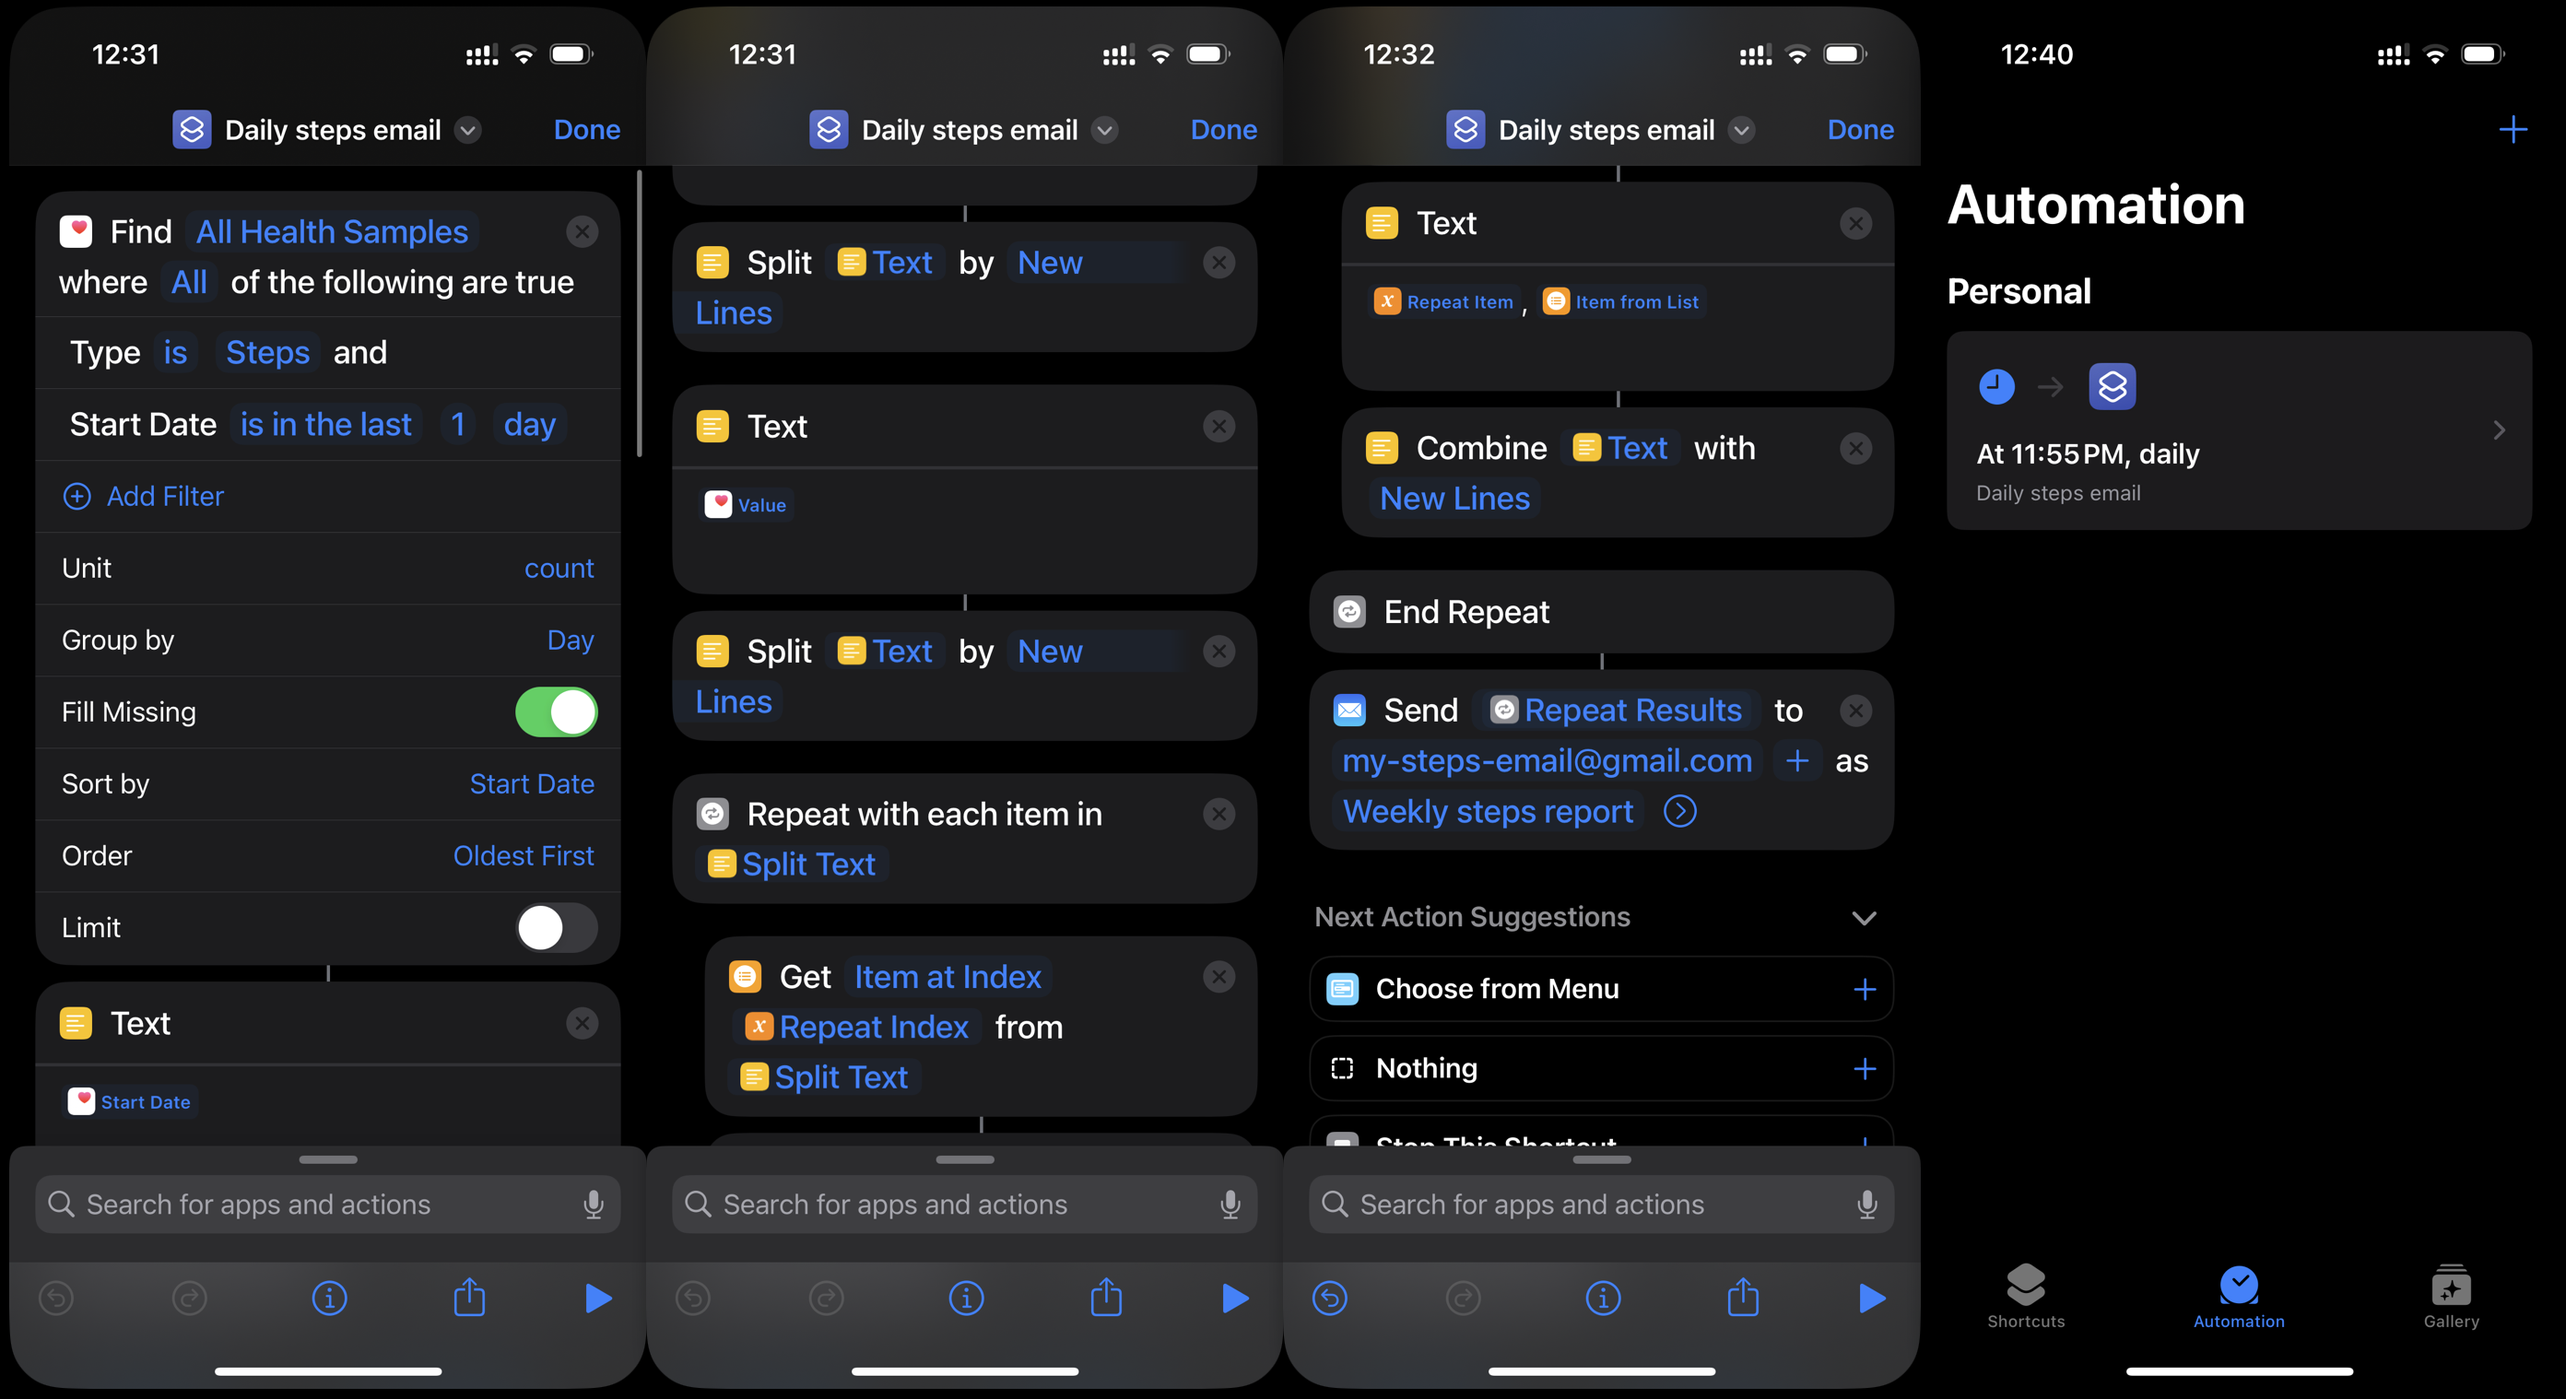
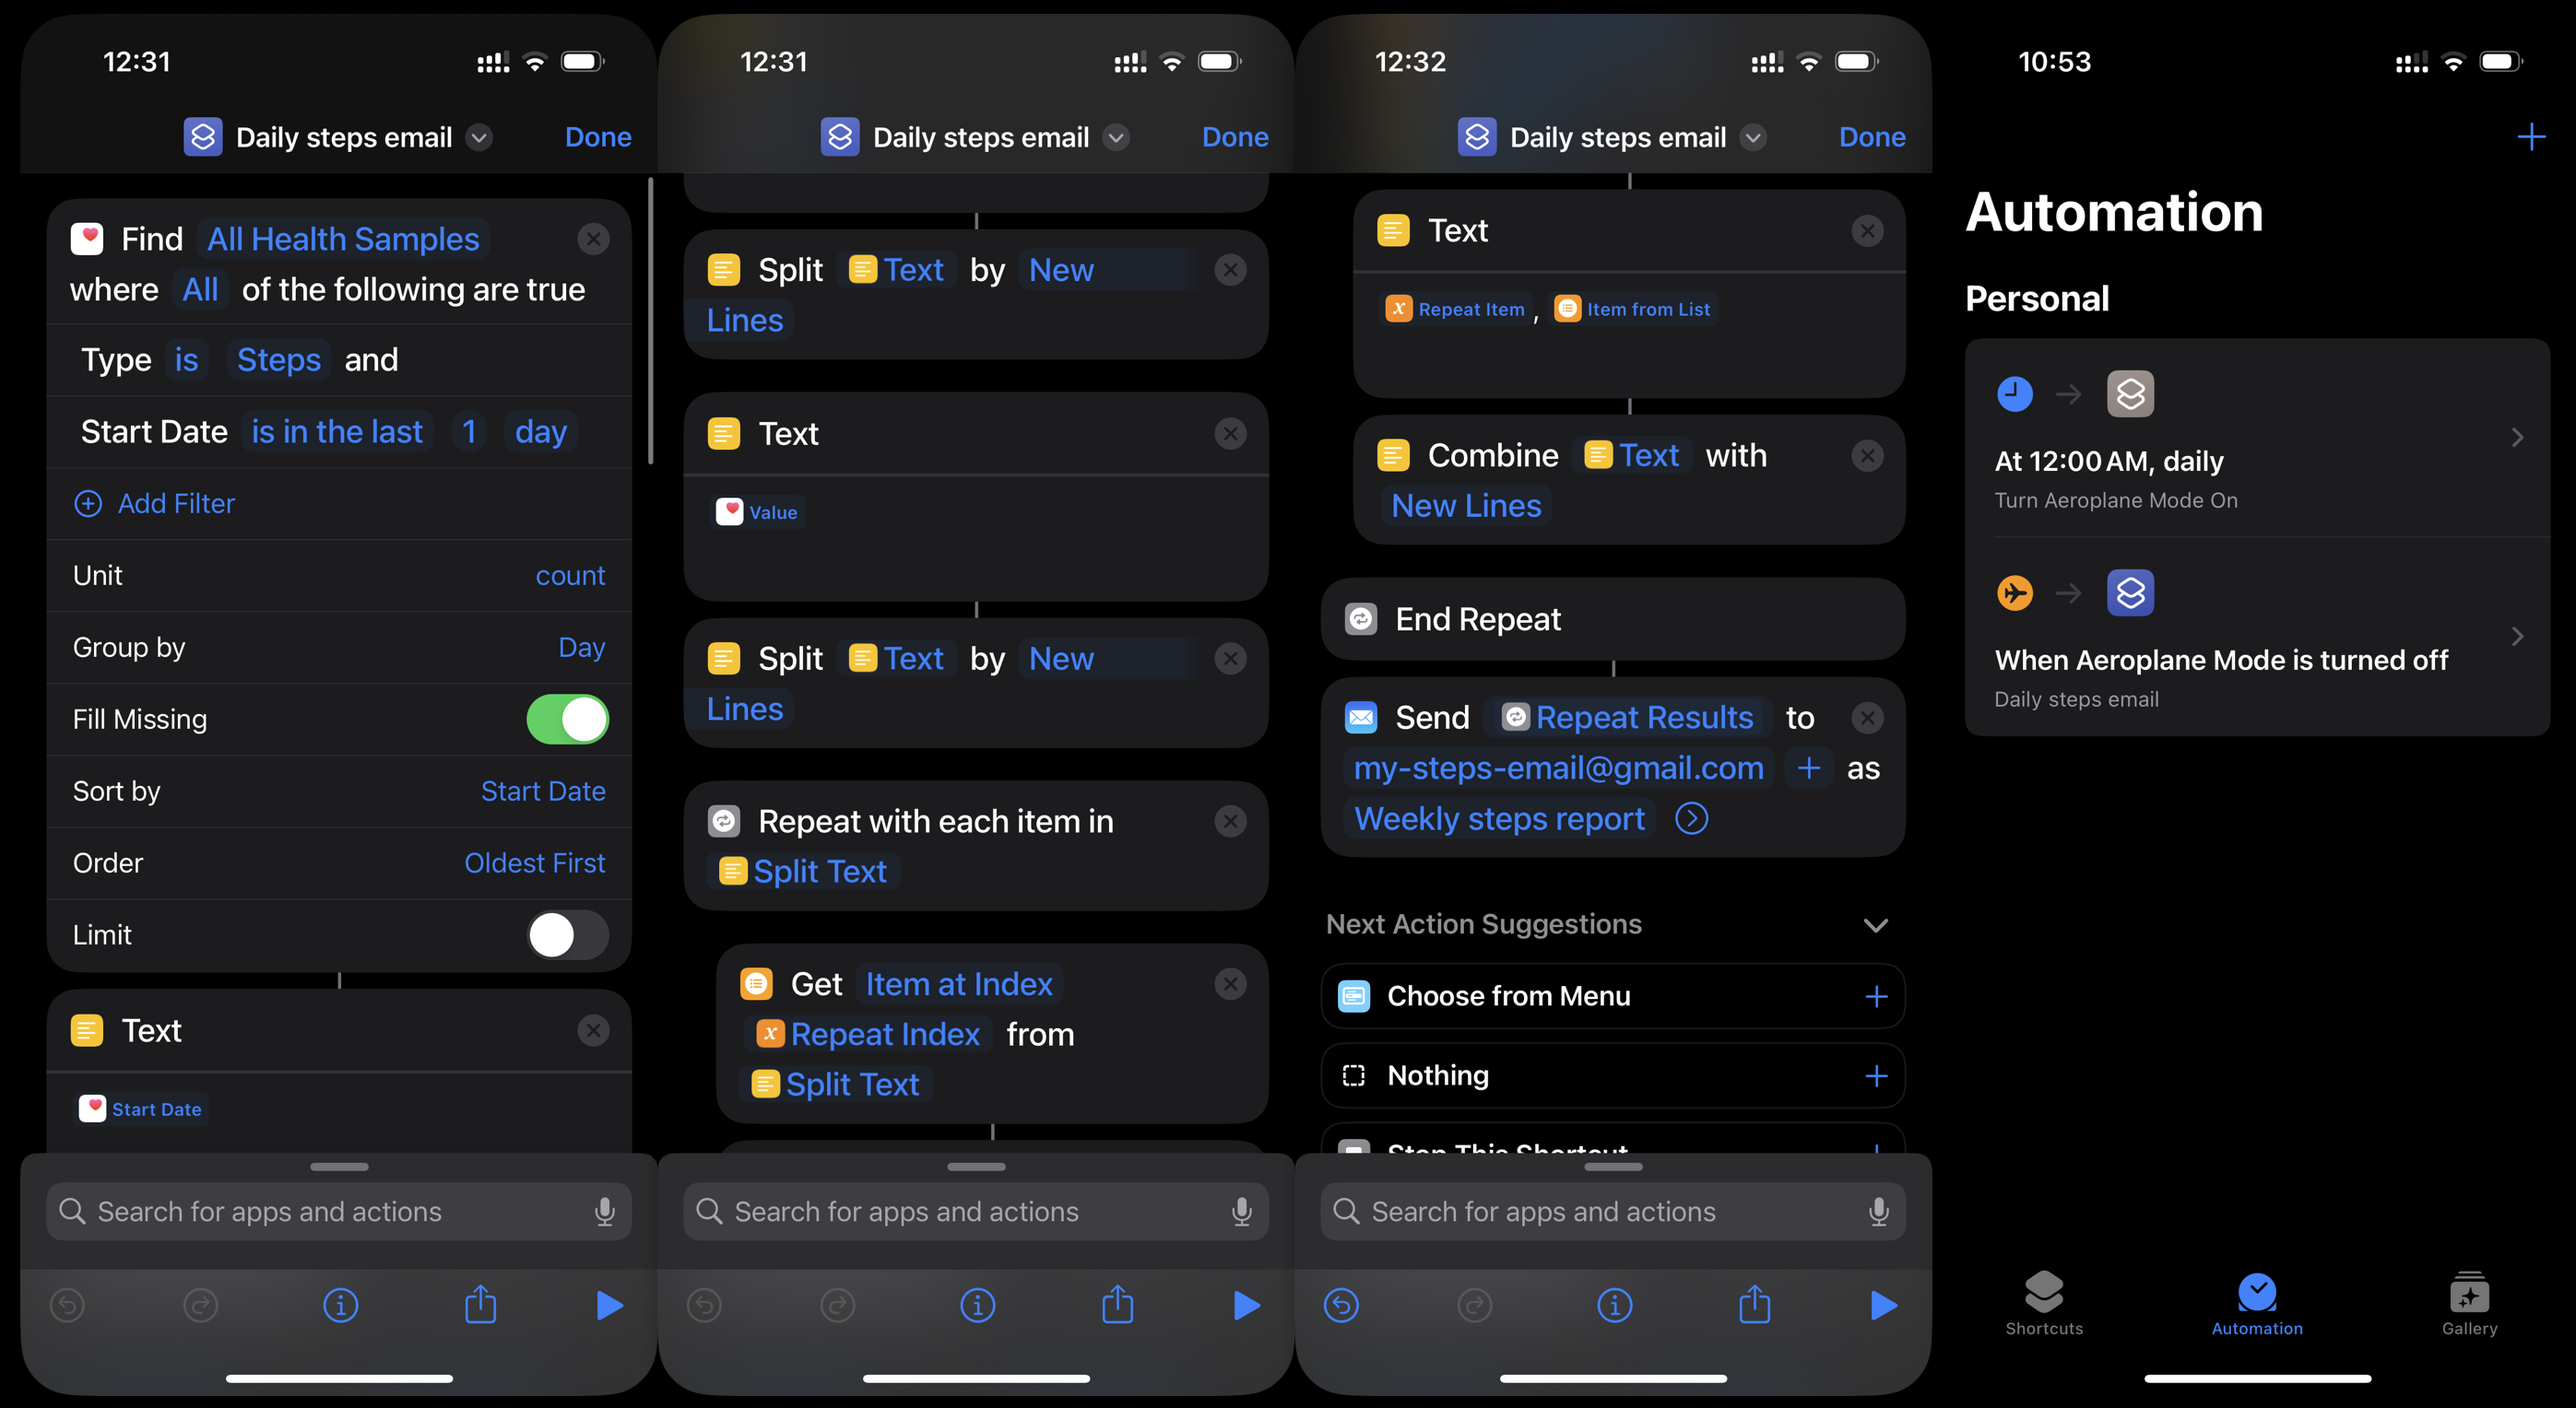
readme

diff --git a/email_sender.py b/email_sender.py
@@ -12,6 +12,9 @@ import logging
 import os
 from dotenv import load_dotenv
 
+TO_EMAIL = "kbre93@gmail.com"
+FROM_EMAIL = "kieran.steps@gmail.com"
+
 class EmailSender:
 
     def __init__(self, to_email, from_email):
@@ -164,10 +167,7 @@ if __name__ == "__main__":
     step_count_plotter = StepSummaryPlotter(step_history_processor)
     fig = step_count_plotter.create_summary_plot()
 
-    to_email = "kbre93@gmail.com"
-    from_email = "kieran.steps@gmail.com"
-
-    email_sender = EmailSender(to_email, from_email)
+    email_sender = EmailSender(TO_EMAIL, FROM_EMAIL)
     # email_sender.send_dummy_email()
     email_sender.send_weekly_summary_email(fig)
 

diff --git a/README.md b/README.md
@@ -1,66 +1,72 @@
-# Every Step You Take
+# Every Step You Take – Weekly Insights from Your iPhone Step Data
 
+<img src="./img/preview.png" alt="Preview" align="left" width="250" style="margin-right: 20px;">
 
+Tracking your daily steps is a straightforward way to monitor your activity levels, but keeping an eye on your progress over time can be a hassle. This project automates the process, delivering a clear summary of your weekly step count directly to your inbox using data from your iPhone.
 
-## Set up Automation on iPhone
-- Shortcut for iPhone (iPhone>Daily steps email.shortcut) reads step data from Health from the last day
-- Changes this to a list in form date, step_count (e.g. 2024-08-18, 12518)
-- Sends in the body of an email
+With Every Step You Take, your step data is collected, analyzed, and compiled into a concise weekly report for your email inbox. This summary gives you a practical overview of your activity trends, helping you stay informed and make adjustments as needed to reach your fitness goals.
+
+<br clear="left"/>
+
+## Features
+- Access your iPhone step data from Health, without a seperate app
+- Automatic insights to your inbox of your weekly step history
+- Step counting is simplest activity tracker, doesn't require wearables
+
+## Setup
+There are three parts to the workflow:
+1. A Shortcut and Automation on iPhone to send step data over email
+2. A Cloud Function triggered daily (Cloud Scheduler) to upload daily step data to Firestore
+3. A Cloud Function triggered weekly to analyse the step history and send and email
+
+### Setup Shortcut and Automation (iPhone)
+- Upload the shortcut in iPhone>Daily steps email.shortcut to iPhone
+The iPhone shortcut reads step data from Health from the last day and sends as an email. Body in the form of date, step_count (e.g. 2024-08-18, 12518)
+Automations with email cannot run automatically on lock screen. Instead:
+- Set an automation to turn on aeroplane mode at 12 am each night
+- Set another automation to trigger the shortcut when aeroplane is turned off (i.e. in the morning when phone is checked)
 
 <img src="./img/iphone_automation.png" alt="iphone Automation" width="700">
 
+### Create a Gmail account
+Create a gmail account to receive daily step data, and send the weekly summary
 
-## Set up Google Cloud platform
-- Enable Gmail API
-- Enable OAuth consent screen
-- Create Credentials for OAuth 2.0, download .json, save as oauth_credentials.json in local directory
+To allow read access:
+- Enable IMAP under settings
+To allow send access:
+- In Gmail, setup an app password, password. 2FA needs to be enabled, then create at https://myaccount.google.com/apppasswords
+- Create a .env in local directory and add as GMAIL_APP_PASSWORD="your app password"
 
-- Program authenticates through OAuth screen once. Stores token in Google Storage bucket
-- Subsequent authentication accesses this bucket, to refresh the token
 
-## Set up Firestore
-- Enable API in Google cloud project
+### Create a Google Cloud project
+Note, the dedicated gmail doesn't need to be in the same workspace as the Google Cloud project. OAuth is used to authenticate gmail access
+Enable API & Services for:
+- Gmail API - for reading emails and marking as read
+- Cloud storage - for storing token for gmail read access
+- Firestore – for storing step history
+- Cloud run functions – for two scripts, daily step count uploads and weekly summary email
+- Cloud scheduler - for triggering daily and weekly jobs
+
+#### OAuth for Gmail
+- Create OAuth consent screen
+  - Scopes need to include .../auth/gmail.modify and .../auth/gmail.readonly
+- Create OAuth credentials
+  - Credentials > Create Credentials > Create OAuth client ID (Application type: Desktop app)
+- Download .json, save as oauth_credentials.json in local directory
+
+Program authenticates through OAuth screen once. Stores token in Google Storage bucket. Subsequent authentication accesses this bucket, to refresh the token. This means the program needs to be run once locally, to follow the Oauth workflow, before it will work as a cloud function
+
+#### Set up Firestore
 - Create service account, give roles for Firestore
     - Requires Cloud Datastore User, Firebase Admin SDK Administrator Service Agent, 
     Firebase Rules System, Firestore Service Agent, Cloud Storage for Firebase Admin
-- Create .json key and download
+- Create .json key and download, save as ./google_service_account_credentials.json
 
 - Create a Firestore database
   - Leave name as (default)
 
-## Set up Email sender
-- In Gmail, setup an app password, password. 2FA needs to be enabled, then create at https://myaccount.google.com/apppasswords
-- Create a .env and add as GMAIL_APP_PASSWORD="app password"
-
-
-## Cloud functions
-- Enable Cloud Functions, Cloud Build, Cloud Run
-
-- Run locally once to set up the gmail authentication token. This is then stored in the gcloud bucket automatically
-
-Userful gcloud functions, handling accounts and projects
-- Check login with `glcoud auth list`
-- Change account with `gcloud config set account email_address`
-- Check the project with `gcloud config get-value project`
-- Change the project with `gcloud config set project YOUR-PROJECT-ID`
-- List all service accounts in project `gcloud iam service-accounts list`
-- Default service account should be: [PROJECT-ID]@appspot.gserviceaccount.com
-- Ensure default service account has necessary permissions 
-
-## Running locally
-- To have this working locally add with .env with:
-RUNNING_LOCALLY=True
-
-- Run `python3 main.py` to start the flask server
-
-#### Steps History Updater
-`curl -X POST http://localhost:8080/run_steps_history_updater`
-
-#### Steps Email Sender
-`curl -X POST http://localhost:8080/run_steps_email_sender`
-
-### Pushing as a cloud function
-- Ensure service account associated with project has required permissions:
+#### Deploy Cloud Functions
+Ensure service account associated with project has required permissions with:
 ```
 gcloud projects add-iam-policy-binding [PROJECT-ID] \
   --member="serviceAccount:[PROJECT-ID]@appspot.gserviceaccount.com" \
@@ -71,8 +77,8 @@ gcloud projects add-iam-policy-binding [PROJECT-ID] \
   --member="serviceAccount:[PROJECT-ID]@appspot.gserviceaccount.com" \
   --role="roles/cloudfunctions.invoker"
 ```
-### Deploy cloud function
-History updater:
+
+Deploy script which updates steps history:
 ```
 gcloud functions deploy run_steps_history_updater \
     --gen2 \
@@ -84,7 +90,7 @@ gcloud functions deploy run_steps_history_updater \
     --timeout 540s \
     --region us-central1
 ```
-Email sender:
+Deploy script which sends :
 ```
 gcloud functions deploy run_steps_email_sender \
     --gen2 \
@@ -97,20 +103,10 @@ gcloud functions deploy run_steps_email_sender \
     --region us-central1 \
     --set-env-vars GMAIL_APP_PASSWORD="$(sed -n 's/^GMAIL_APP_PASSWORD="\(.*\)"/\1/p' .env)"
 ```
-- Run with
-```
-gcloud functions call run_steps_history_updater --region us-central1
-```
-
-```
-gcloud functions call run_steps_email_sender --region us-central1
-```
-
-#### Schedule
-- Create cron job in Google Cloud Scheduler
+#### Schedule jobs
 In Cloud Scheduler > Create 
-- For daily_steps_history_update, Frequency 5 0 * * * (00:05 every day)
-- For weekly_steps_email_sender, Frequency 0 5 * * 1 (05:00 every Monday)
+- For daily_steps_history_update, Frequency 0 12 * * * (12:00 every day)
+- For weekly_steps_email_sender, Frequency 30 12 * * 1 (12:30 every Monday)
 
 Target type HTTP
 URL: https://us-central1-[PROJECT-ID].cloudfunctions.net/run_steps_history_updater 
@@ -118,7 +114,36 @@ HTTP method: POST
 Auth header: Add OIDC token
 Service account: App Engine default service account ([PROJECT-ID]@appspot@gserviceaccount.com)
 
-- Change the timeout with:
+
+### Userful gcloud functions, handling accounts and projects
+- Check login with `glcoud auth list`
+- Change account with `gcloud config set account email_address`
+- Check the project with `gcloud config get-value project`
+- Change the project with `gcloud config set project YOUR-PROJECT-ID`
+- List all service accounts in project `gcloud iam service-accounts list`
+- Default service account should be: [PROJECT-ID]@appspot.gserviceaccount.com
+- Ensure default service account has necessary permissions 
+
+## Running
+
+### Run locally
+- To have this working locally add with .env with:
+RUNNING_LOCALLY=True
+
+- Run `python3 main.py` to start the flask server
+
+#### Steps History Updater
+`curl -X POST http://localhost:8080/run_steps_history_updater`
+
+#### Steps Email Sender
+`curl -X POST http://localhost:8080/run_steps_email_sender`
+
+
+### Run cloud function
 ```
-gcloud scheduler jobs update http weekly-metrics --attempt-deadline=600s
+gcloud functions call run_steps_history_updater --region us-central1
 ```
+```
+gcloud functions call run_steps_email_sender --region us-central1
+```
+
